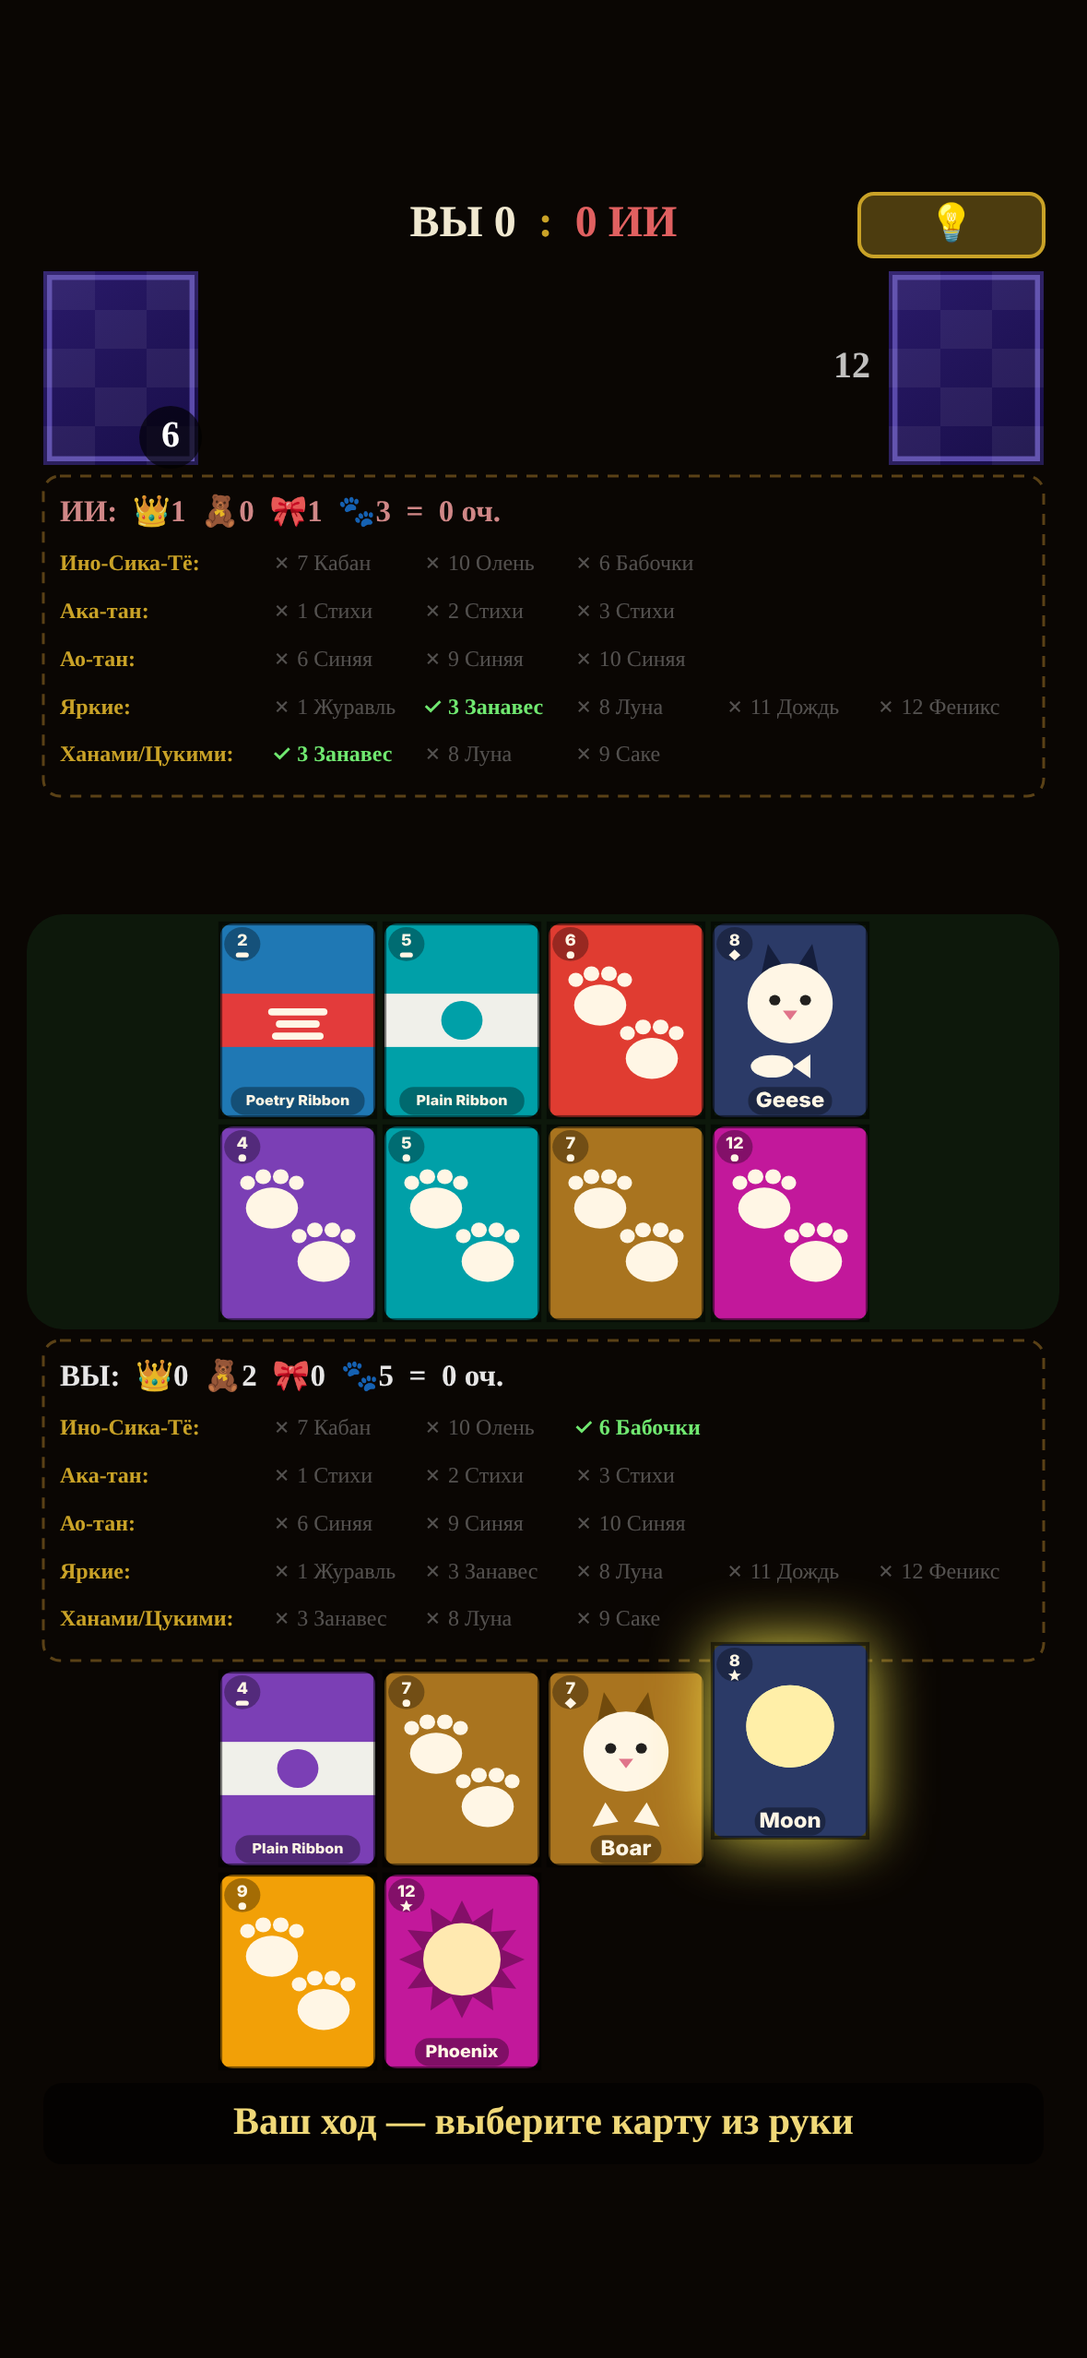
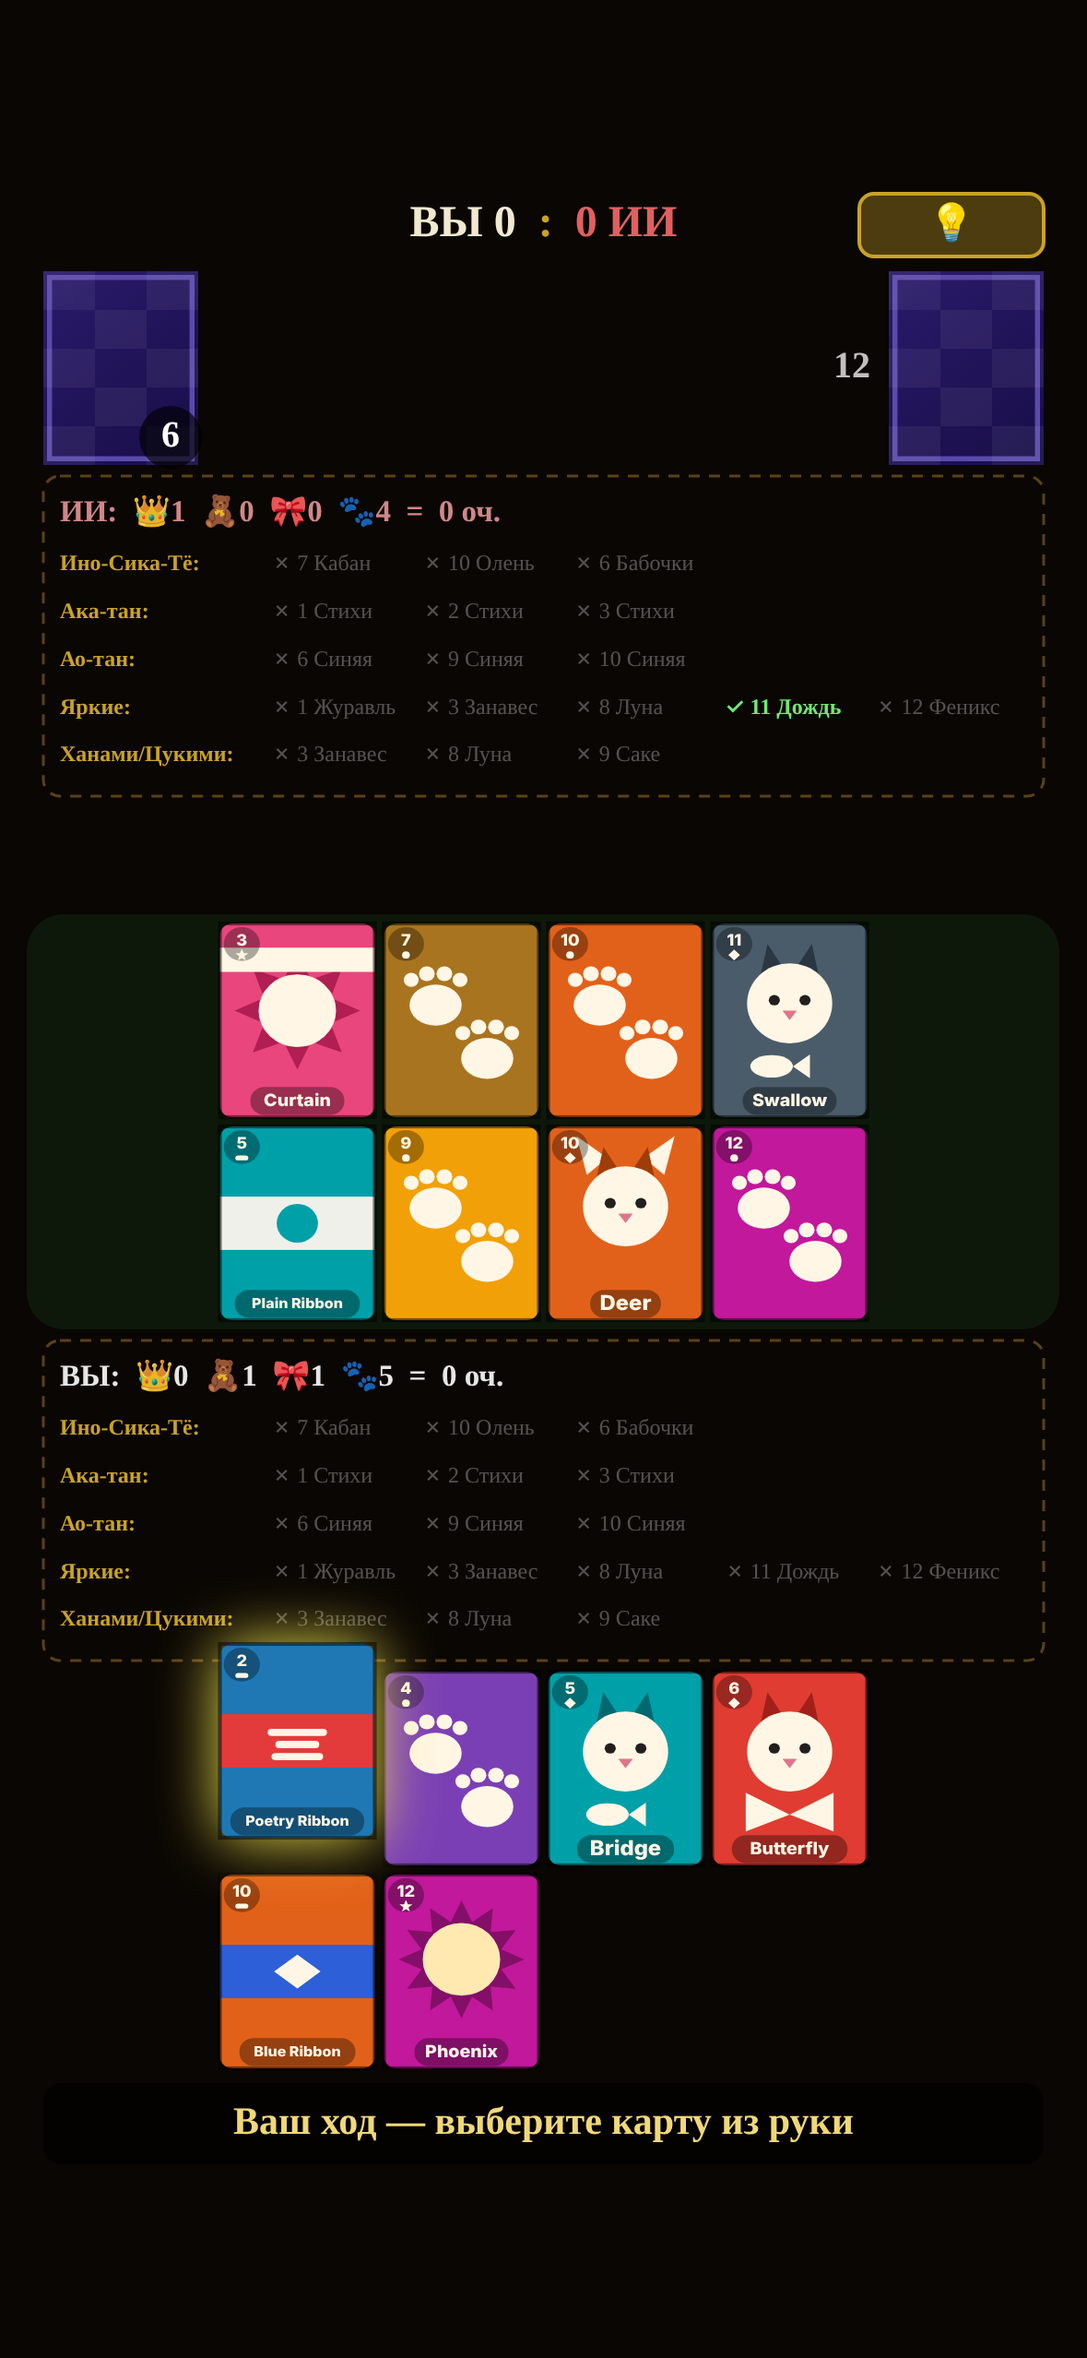
UI: центровка рядов без округления; порядок отрисовки (на столе позже выложенная поверх); арт шире рамки 188:210; docs/cards-art.md — имена файлов 48 карт
Claude-Session: https://claude.ai/code/session_01YWBhc7XyH6Quahzkpjq16G

diff --git a/index.html b/index.html
@@ -289,14 +289,14 @@ function toBoard(cx,cy){return {x:cx/VIEW.k, y:cy/VIEW.k};}
 function toLegacy(cx,cy){return {x:(cx-VIEW.lx)/VIEW.ls, y:(cy-VIEW.ly)/VIEW.ls};}
 
 function boardLayout(V=VIEW){
-  // Координаты округляются: на iPhone 15 (k=1) края карт попадают ровно в пиксели
+  // Поля и строки округляются; центровка рядов — нет (по краям может быть 13,5)
   const {VW,VH,k,insets}=V, R=Math.round;
   const sx=R((VW-SAFE_W)/2);
   const sTop=R(Math.max(VH*SAFE_V, (insets?insets.top:0)/k));
   const sBot=R(VH-Math.max(VH*SAFE_V, (insets?insets.bottom:0)/k));
   const band={x:sx,y:sBot-BAND_H,w:SAFE_W,h:BAND_H};
   const handY2=band.y-HAND_GAP-BCH, handY1=handY2-HAND_GAP-BCH;
-  const handX=R((VW-(4*BCW+3*HAND_GAP))/2);      // рука — по центру экрана
+  const handX=(VW-(4*BCW+3*HAND_GAP))/2;         // рука — по центру экрана (без округления)
   const ai={x:sx,y:sTop+HEADER_H+B_GAP};
   const dw=R(BCW*DECK_K), dh=R(BCH*DECK_K);
   const tableH=2*BCH+B_GAP, stage=R(BCH*(1-STAGE_OVER)); // место над столом под выехавшую карту
@@ -341,7 +341,7 @@ function tableLayout(L){
   const ord=(a,b)=>slot[a.id].r-slot[b.id].r||slot[a.id].o-slot[b.id].o;
   const sorted=[...G.table].sort(ord);
   const row=(cards,y,w,h)=>{
-    const x0=Math.round((L.VW-(cards.length*w+(cards.length-1)*B_GAP))/2);
+    const x0=(L.VW-(cards.length*w+(cards.length-1)*B_GAP))/2;   // центр без округления (13,5 по краям)
     return cards.map((card,i)=>({card,w,h,x:x0+i*(w+B_GAP),y}));
   };
   if(n<=4) return row(sorted,L.table.y+(L.table.h-BCH)/2,BCW,BCH);
@@ -511,10 +511,13 @@ function tablePosAt(t,now,ms){
 function drawBoardTable(L){
   const onTable=new Set(G.table.map(c=>c.id));
   for(const id in TPOS) if(!onTable.has(+id)) delete TPOS[id];
-  tableLayout(L).forEach(t=>{
+  // Порядок отрисовки: карта, выложенная на стол позже, — поверх лежащих;
+  // подсвеченные (цели взятия) — поверх всех
+  const slot=G.tslot||{}, isT=c=>G.aiTargets&&G.aiTargets.some(t=>t.id===c.id);
+  tableLayout(L).sort((a,b)=>(isT(a.card)-isT(b.card))||((slot[a.card.id]?.o??0)-(slot[b.card.id]?.o??0))).forEach(t=>{
     const {card,w,h}=t, {x,y}=tableMove(card.id,t.x,t.y);
     LASTPOS[card.id]={x,y};
-    const isTarget=G.aiTargets&&G.aiTargets.some(t=>t.id===card.id);
+    const isTarget=isT(card);
     if(isTarget){
       ct.save();ct.shadowColor='rgba(255,160,40,.9)';ct.shadowBlur=40;
       ct.strokeStyle='rgba(255,160,40,.95)';ct.lineWidth=7;
@@ -582,8 +585,11 @@ function drawDebugInsets(L){
   ct.fillStyle='#9f9';t.forEach((s,i)=>ct.fillText(s,4,y0-(t.length-1-i)*13));
   ct.restore();
 }
+// Порядок отрисовки руки: ряд за рядом слева направо (правая карта поверх левой,
+// нижний ряд поверх верхнего); выбранная карта и подсказка — поверх всех
 function drawBoardHand(L){
-  playerHandLayout(L).forEach(({card,i,x,y})=>{
+  const top=i=>(G.sel===i?2:0)+(hintActive===i?1:0);
+  playerHandLayout(L).sort((a,b)=>top(a.i)-top(b.i)).forEach(({card,i,x,y})=>{
     const sel=G.sel===i&&(G.phase==='select'||G.phase==='choose');
     const yy=y+(sel?-30:0);
     LASTPOS[card.id]={x,y:yy};
@@ -2087,12 +2093,15 @@ const cardBackEntry=(()=>{
   e.img.onerror();
   return e;
 })();
-// Картинка в слот карты: если пропорции совпадают (±6%) — на весь слот,
-// иначе вписывается по центру на фоне цвета месяца (встроенные SVG 120×160
-// шире слота 190×310 — не растягиваем их).
+// Картинка в слот карты: если пропорции совпадают (±7%) — на весь слот.
+// Арт «шире рамки» (пропорция ART_W:BCH = 188:210, ±3%) рисуется по центру
+// слота шире на ART_BLEED с каждой стороны и налезает на соседей; рамка тогда
+// не рисуется. Иначе — вписывается по центру на фоне цвета месяца.
+const ART_W=188, ART_K=ART_W/BCW;   // ширина арта с выступами при карте 168
 function drawFitted(img,x,y,w,h,bg){
   const ia=img.naturalWidth/img.naturalHeight, sa=w/h;
-  if(!ia||Math.abs(ia/sa-1)<0.06){ct.drawImage(img,x,y,w,h);return;}
+  if(ia&&Math.abs(ia/(sa*ART_K)-1)<0.03){const aw=w*ART_K;ct.drawImage(img,x-(aw-w)/2,y,aw,h);return 'bleed';}
+  if(!ia||Math.abs(ia/sa-1)<0.07){ct.drawImage(img,x,y,w,h);return;}
   ct.fillStyle=bg;ct.fillRect(x,y,w,h);
   if(ia>sa){const dh=w/ia;ct.drawImage(img,x,y+(h-dh)/2,w,dh);}
   else{const dw=h*ia;ct.drawImage(img,x+(w-dw)/2,y,dw,h);}
@@ -2117,9 +2126,9 @@ function drawCard(x,y,card,face=true,sel=false,w=CW,h=CH){
   const entry=getCardImg(card);
   const m=MON[card.m-1];
   if(entry.loaded){
-    drawFitted(entry.img,x,y,w,h,m.c);
+    const bleed=drawFitted(entry.img,x,y,w,h,m.c)==='bleed';
     ct.shadowBlur=0;
-    ct.strokeStyle='rgba(0,0,0,.5)';ct.lineWidth=lw;ct.strokeRect(x,y,w,h);
+    if(!bleed){ct.strokeStyle='rgba(0,0,0,.5)';ct.lineWidth=lw;ct.strokeRect(x,y,w,h);}
   }else{
     // Пока картинка грузится — временная заглушка цвета месяца
     ct.fillStyle=m.c;ct.fillRect(x,y,w,h);

diff --git a/docs/cards-art.md b/docs/cards-art.md
@@ -1,0 +1,83 @@
+# Арт карт — имена файлов и размеры
+
+Игра сама ищет файл карты в папке `cards/` по имени: сначала `.png`, потом `.jpg`, потом `.svg`.
+Достаточно положить PNG с нужным именем — он перекроет нынешний рисунок, код менять не надо.
+Можно заменять по одной карте.
+
+## Размер
+
+Карта на экране 4:5 (на iPhone 15 — 168×210 px). Два варианта файла:
+
+| Вариант | Пропорция | Пример размера | Как рисуется |
+|---|---|---|---|
+| Обычная карта | 4:5 | 336×420 (×2) или 504×630 (×3) | ровно в рамку карты, с тонкой тёмной обводкой |
+| Карта с выступами | 188:210 | 376×420 (×2) или 564×630 (×3) | по центру рамки, шире на 10 px (на iPhone 15) с каждой стороны; выступы налезают на соседние карты, обводки нет |
+
+Для варианта с выступами: сама карта — центральные 336×420 (при 376×420), по 20 px слева и справа —
+прозрачный фон, куда можно заводить уши, хвосты, лапы. По высоте выступов нет.
+PNG с прозрачностью. Игра узнаёт вариант по пропорции файла.
+
+Порядок, кто поверх кого:
+- на столе — карта, выложенная позже, поверх лежащих; подсвеченные (цели взятия) — поверх всех;
+- в руке — правая поверх левой, нижний ряд поверх верхнего; выбранная карта и подсказка — поверх всех;
+- выехавшая в центр карта и летящие в яку — поверх всего.
+
+Рубашка: `cards/back.png` (та же пропорция 4:5).
+
+## Все 48 карт
+
+Тип: **bright** — яркая (20 оч.), **animal** — животное (10), **ribbon** — лента (5), **plain** — простая (1).
+У простых карт номер 1/2/3 — просто разные картинки одного месяца.
+
+| Месяц | Цветок | Файл | Тип | Что это |
+|---|---|---|---|---|
+| 1 | Сосна | `m1_bright` | bright | Журавль |
+| 1 | Сосна | `m1_ribbon` | ribbon | красная лента со стихами (Ака-тан) |
+| 1 | Сосна | `m1_plain1` | plain | |
+| 1 | Сосна | `m1_plain2` | plain | |
+| 2 | Слива | `m2_animal` | animal | соловей (Warbler) |
+| 2 | Слива | `m2_ribbon` | ribbon | красная лента со стихами (Ака-тан) |
+| 2 | Слива | `m2_plain1` | plain | |
+| 2 | Слива | `m2_plain2` | plain | |
+| 3 | Сакура | `m3_bright` | bright | Занавес (Ханами) |
+| 3 | Сакура | `m3_ribbon` | ribbon | красная лента со стихами (Ака-тан) |
+| 3 | Сакура | `m3_plain1` | plain | |
+| 3 | Сакура | `m3_plain2` | plain | |
+| 4 | Глициния | `m4_animal` | animal | кукушка (Cuckoo) |
+| 4 | Глициния | `m4_ribbon` | ribbon | простая лента |
+| 4 | Глициния | `m4_plain1` | plain | |
+| 4 | Глициния | `m4_plain2` | plain | |
+| 5 | Ирис | `m5_animal` | animal | мостик (Bridge) |
+| 5 | Ирис | `m5_ribbon` | ribbon | простая лента |
+| 5 | Ирис | `m5_plain1` | plain | |
+| 5 | Ирис | `m5_plain2` | plain | |
+| 6 | Пион | `m6_animal` | animal | Бабочки (Ино-Сика-Тё) |
+| 6 | Пион | `m6_ribbon` | ribbon | синяя лента (Ао-тан) |
+| 6 | Пион | `m6_plain1` | plain | |
+| 6 | Пион | `m6_plain2` | plain | |
+| 7 | Хаги | `m7_animal` | animal | Кабан (Ино-Сика-Тё) |
+| 7 | Хаги | `m7_ribbon` | ribbon | простая лента |
+| 7 | Хаги | `m7_plain1` | plain | |
+| 7 | Хаги | `m7_plain2` | plain | |
+| 8 | Трава | `m8_bright` | bright | Луна (Цукими) |
+| 8 | Трава | `m8_animal` | animal | гуси (Geese) |
+| 8 | Трава | `m8_plain1` | plain | |
+| 8 | Трава | `m8_plain2` | plain | |
+| 9 | Хризантема | `m9_animal` | animal | чашка саке (Ханами, Цукими) |
+| 9 | Хризантема | `m9_ribbon` | ribbon | синяя лента (Ао-тан) |
+| 9 | Хризантема | `m9_plain1` | plain | |
+| 9 | Хризантема | `m9_plain2` | plain | |
+| 10 | Клён | `m10_animal` | animal | Олень (Ино-Сика-Тё) |
+| 10 | Клён | `m10_ribbon` | ribbon | синяя лента (Ао-тан) |
+| 10 | Клён | `m10_plain1` | plain | |
+| 10 | Клён | `m10_plain2` | plain | |
+| 11 | Ива | `m11_bright` | bright | Дождь (Rain Man) |
+| 11 | Ива | `m11_animal` | animal | ласточка (Swallow) |
+| 11 | Ива | `m11_ribbon` | ribbon | простая лента |
+| 11 | Ива | `m11_plain1` | plain | (единственная простая в месяце) |
+| 12 | Павловния | `m12_bright` | bright | Феникс |
+| 12 | Павловния | `m12_plain1` | plain | |
+| 12 | Павловния | `m12_plain2` | plain | |
+| 12 | Павловния | `m12_plain3` | plain | (в 12-м месяце три простые) |
+
+Итого 48: ярких 5, животных 9, лент 10 (стихи 3, синих 3, простых 4), простых 24.

diff --git a/docs/ui-layout.md b/docs/ui-layout.md
@@ -11,6 +11,12 @@
   округляются — на iPhone 15 (k=1) всё в целых пикселях. Все размеры
   масштабируются одним k, поэтому аспект карт на любом экране 4:5; на других
   экранах пиксели дробные (Android 412×915 — 176×220, 16:9 — 156×194).
+  Центровка рядов и руки не округляется (по краям стола 13,5).
+- **Арт шире рамки** (пропорция 188:210): рисуется по центру слота на 10 px шире
+  с каждой стороны, налезает на соседей, обводки нет (`ART_W`, `drawFitted`).
+  Порядок: на столе позже выложенная — поверх, подсвеченные — поверх всех; в руке
+  правая поверх левой, нижний ряд поверх верхнего, выбранная и подсказка — сверху.
+  Имена файлов и размеры — `docs/cards-art.md`.
 - **Колода того же размера, что карта ИИ (168×210)** — справа, зеркально ей (та же строка), число
   карт слева от колоды.
 - **Выезд карт:** карта хода ИИ (из его карты) и карта из колоды (из колоды) летят

diff --git a/CLAUDE.md b/CLAUDE.md
@@ -15,6 +15,7 @@
 - `docs/sql/` — SQL-миграции. Их выполняет **пользователь** в Supabase → SQL Editor (у Claude доступа к базе нет);
   код, который зависит от новой миграции, вливать в `main` только после подтверждения, что SQL выполнен.
 - `cards/` — внешний арт карт. Файл `cards/<имя>.png|jpg|svg` перекрывает встроенный `CARD_SVG`.
+  Имена файлов, размеры (4:5, вариант «шире рамки» 188:210) — `docs/cards-art.md`.
 - `tools/ai-sim/` — headless-харнесс прогонов ИИ (`sim.js`, `pimc.js`, `yakucheck.js`, `logcheck.js`, `README.md`).
   На Vercel не деплоится (`.vercelignore`).
 - `docs/archive/` — история калибровки портфельного ИИ и рекап первой сессии.
